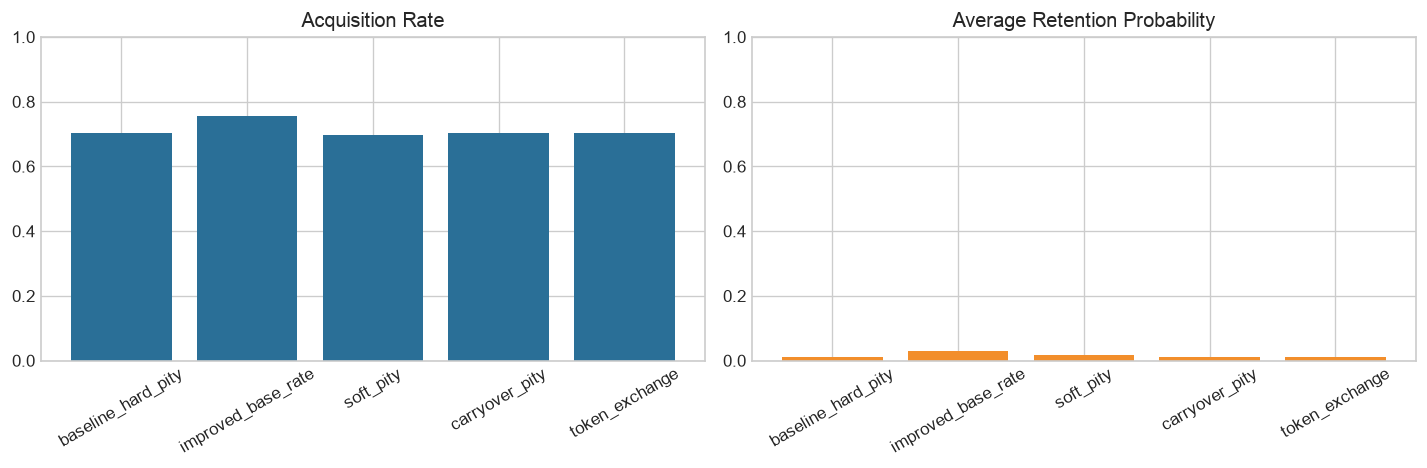
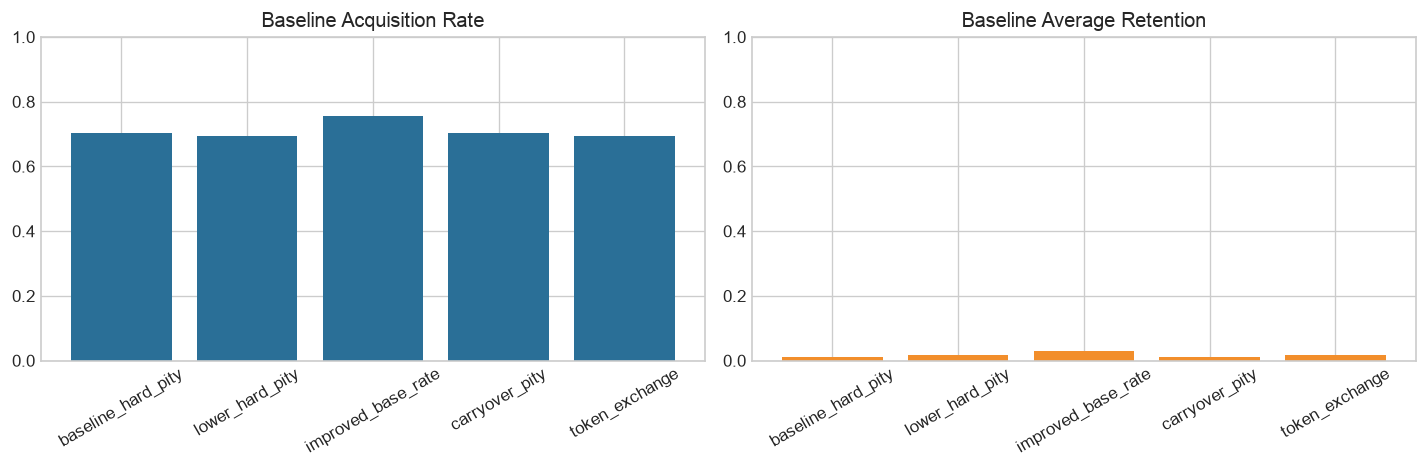
Document recent notebook changes

diff --git a/CHANGES.md b/CHANGES.md
@@ -1,0 +1,16 @@
+# Changes
+
+## Notebook and Analysis Updates
+
+- Added Atlas Academy weighting as a direct banner-rate modifier for the limited-banner scenarios.
+- Kept player pull budgets separate from banner desirability so the retention model remains easier to interpret.
+- Validated the edited notebook cells and refreshed the acquisition/retention figure.
+
+## Documentation Updates
+
+- Updated the final report and proposal wording to match the current simulation design.
+- Created a separate final report DOCX copy for submission workflow use.
+
+## Outputs
+
+- Regenerated `Diagrams/acquisition_retention.png` from the updated notebook.